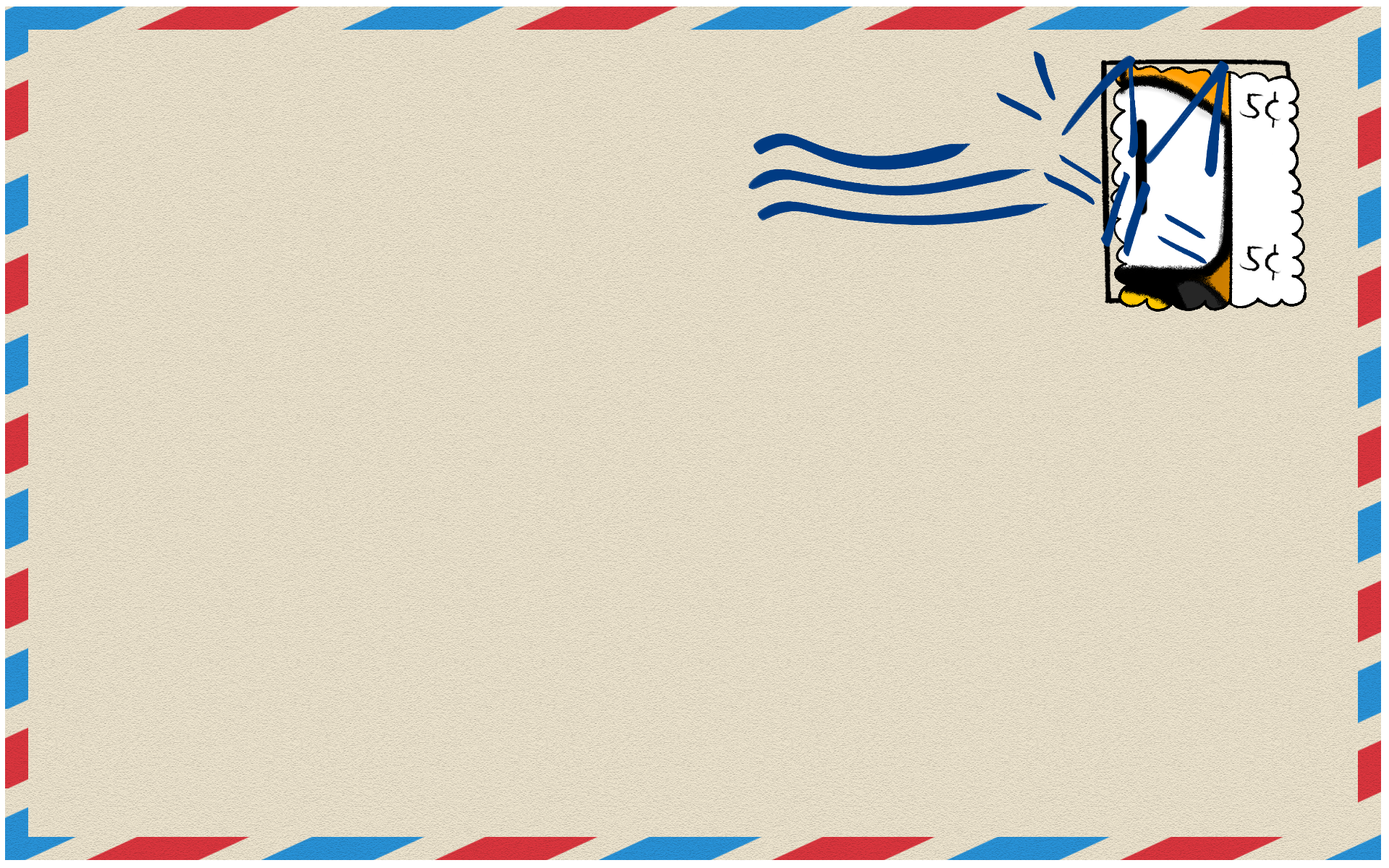
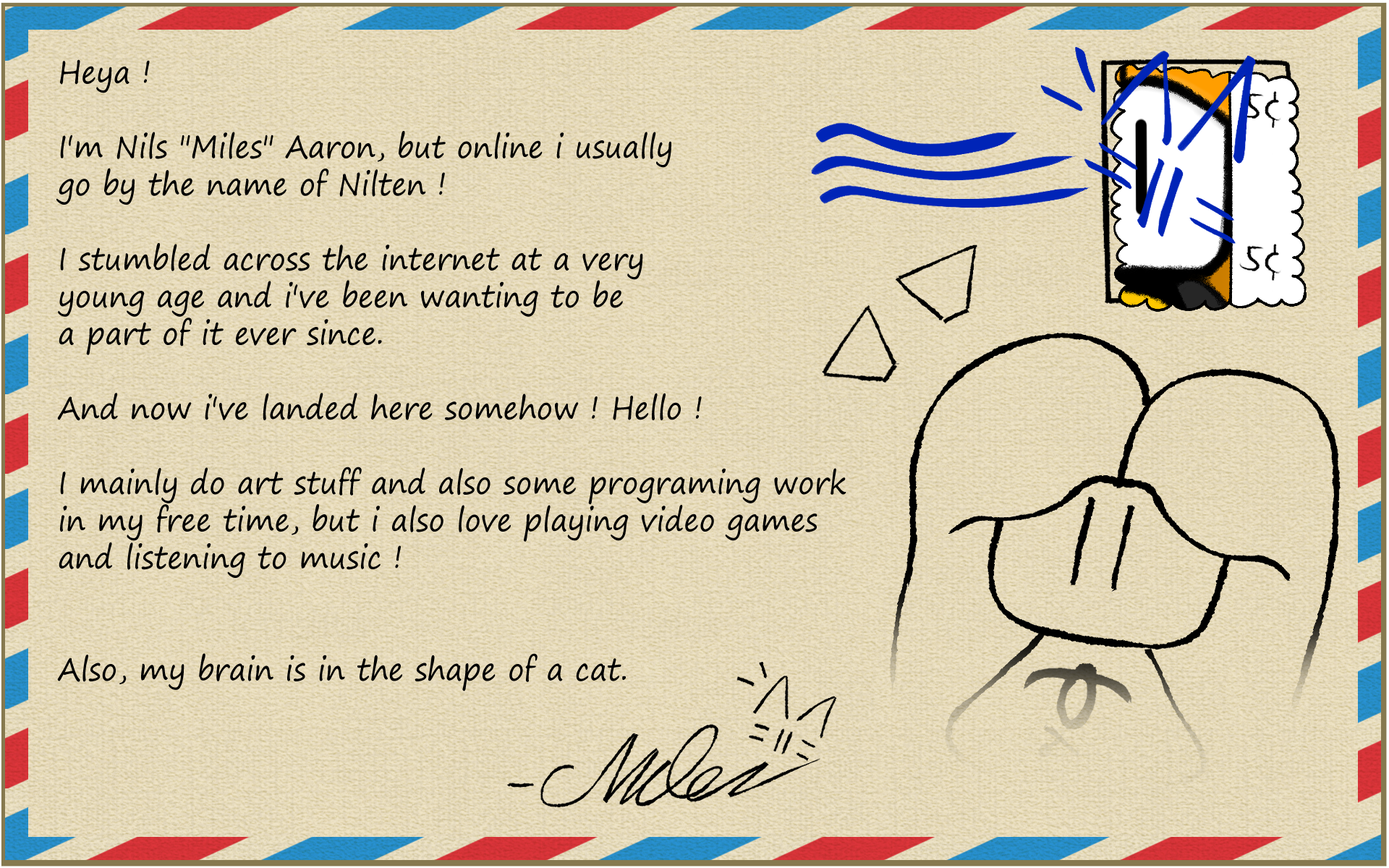
updated some texts and the postcard on the about page

Changed region(s): [[0.0, 0.0, 1.0, 1.0]]

diff --git a/nilten/about.html b/nilten/about.html
@@ -208,26 +208,11 @@
                 <div style="width: 100%; height: 90px;"></div>
 
                 <div style="width: 100%; transform: rotate(2deg);">
-                    <div style="width: 950px; height: 585px; background-color: #000000; opacity: 0.55; position: absolute; transform: translate(55px, 18px);"></div>
-                    <div style="width: 950px; height: 600px; margin: auto; margin-bottom: 15px; padding: 10px; display: flex; align-items: center; justify-content: center; position: relative; background-image: url('images/about/about_miles_postcard.webp'); background-size: cover; background-repeat: no-repeat;">
-                        <img src="images/generic/img_pin_01.webp" style="z-index: 1; position: absolute; width: 200px; transform: translate(-40px, -300px) rotate(30deg);" draggable="false">
-                        <div style="width: 75%; min-height: inherit;">
-                            <img src="images/about/about_speach_bubble_miles.webp" style="width: 735px;" draggable="false">
-                            <div style="position: absolute; left: 115px; top: 165px; width: 470px; font-size: 15px;">
-                                <p>Heya ! I'm Nils "Miles" Aaron, but i also go by the name of Nilten online ! I'm just a little dude from
-                                    germany, who happened to have stumbled across the internet at a relatively young age and who always wanted to be a part of it ever since. Fast forward a few
-                                    years later and now i'm here! hi ! hello !</p>
-                                <p>I mostly do a bunch of art stuff and also some programing work every now and then in my free time, but i also love playing video games and listening to music !
-                                    Life without these things would probably be absolute torture for me ! </p>
-                                <p style="margin-bottom: 7px;">I'm a huge fan of collecting physical media as well ! Mostly retro games, but i've started collecting more vinyl records too lately !</p>
-                                <p style="margin: 0;">And i also love cats as well ! <span style="font-size: 8px;">...if you couldn't tell already lmao</span></p>
-                            </div>
-                        </div>
-                        <div style="width: 25%;">
-                            <img src="images/about/about_miles_smol.webp" style="width: 220px; height: auto;">
-                        </div>
-                    </div>
+                    <img src="images/generic/img_pin_01.webp" style="z-index: 4; position: absolute; width: 175px; transform: translate(400px, -60px) rotate(15deg);" draggable="false">
+                    <img src="images/about/about_miles_postcard.webp" style="width: 90%; display: block; margin: auto;">
                 </div>
+
+                <div style="width: 100%; height: 50px;"></div>
             </div>
 
             <div id="mainContainerTwo" style="margin: 15px auto; border-width: 15px; width: 90%;">
@@ -236,13 +221,13 @@
                    <div style="float: left; width: 55%;">
                         <p>As of an early age, i have been quite a big fan of video games and just like with most of people my love for video games started with nintendo.</p>
                         <p>My first memories of playing video games are from playing the Nintendo 64, playing games like Mario Kart 64, Mario Party 2 or Super Smash Bros together with my cousins and also from spending a lot of time with consoles like the Wii, DS and GameCube. <br><br> I was a proud nintendo kid growing up! But i also have some memories of playing Playstation games like Little Big Planet or Katamari. And when i would be allowed to use the familly Vista PC, i've spend most of the time playing flash games like Super Mario 63. <br> Looking back, video games were quite a big part of my childhood and they still are to this day!</p>
-                        <p>Growing up on video games, mario has always been my favourite game series. This silly little red plumber from Brooklyn New York made baby miles' brain go "Oh wow videogames quite rule, actually."</p>
+                        <p>Growing up on video games, mario has always been my favorite game series. This silly little red plumber from Brooklyn New York made baby miles' brain go "Oh wow videogames quite rule, actually."</p>
                         <p>And ever since that fateful day, baby miles was never the same again...</p>
                         <p style="font-size: xx-small;">And with that i mean that i truly fell in love with videogames that day. nothing bad happenned to me i'm not ill or something like that i'm fine lmao.</p>
                    </div>
                     <div style="float: right; width: 45%;">
                         <div style="overflow-y: scroll; background-image: url('images/generic/div_bg_01.webp'); padding: 10px; height: 350px; width: 375px; margin: auto;" class="borderTypeOne">
-                            <p style="text-align: center; font-size: x-large; text-decoration: underline;">My favourite games:</p>
+                            <p style="text-align: center; font-size: x-large; text-decoration: underline;">My favorite games:</p>
                             <br>
                             <ul id="favVideogameList">
                                 <div class="favGameListItem">
@@ -467,7 +452,7 @@
                 <div>
                     <div style="float: left; width: 45%;">
                         <div style="overflow-y: scroll; background-image: url('images/generic/div_bg_01.webp'); padding: 10px; width: 375px; height: 350px; margin: auto;" class="borderTypeOne">
-                            <p style="text-align: center; font-size: x-large; text-decoration: underline;">My favourite Bands and Albums:</p>
+                            <p style="text-align: center; font-size: x-large; text-decoration: underline;">My favorite Bands and Albums:</p>
                             <br>
                             <ul style="padding: 0;">
                                 <div class="favMusicListItem">
@@ -630,7 +615,7 @@
                         Everytime i go for a walk, leave the house to get groceries or even when it's just me siting at home trying to get some work done, my mind is like a jukebox that's always on max volume !
                         </p>
                         <p>Like most people nowerdays, i listen to music using streaming services on my phone, due to it's convinience. Although i also own a good few albums on vinyl and cd ! Physical media just rules and it always will ! Especially for concept albums like The Wall, where you'll just have a better experience by not having any kind of load times or ad breaks !</p>
-                        <p>Here's a list of some of my favourite bands and albums, i love listening to. Now, these are just SOME of my favourite ! If i'd be listing every band and album i love, this list would be endless !</p>
+                        <p>Here's a list of some of my favorite bands and albums i love listening to. Now, these are just SOME of my favorite ! If i'd be listing every band and album i love, this list would be practically endless !</p>
                     </div>
                 </div>
             </div>
@@ -641,7 +626,7 @@
                     <img src="images/portfolio/artworks.webp" alt="Art thingys!" style="width: 512px; height: 432px; object-fit: cover; display: block; margin: auto;" class="borderTypeOne">
                     <div style="width: 50%;">
                         <p>I love drawing things in my free time ! It's a great way for me to relax and let my creativity flow. As long as my brain DOES actually let out these funky creativity chemicals and i'm not stuck in some form of art block, that is !</p>
-                        <p>I mostly draw stuff digitaly using my wacom drawing tablet (not sponsored) hooked up to my pc with clip studio paint (still not sponsored), but i also like to draw the traditional way using a real pen and paper from time to time !</p>
+                        <p>Mostly i draw digitaly using my xp pen artist pro 22 (not sponsored) hooked up to my pc with clip studio paint (still not sponsored), but i also like to draw the traditional way using a real pen and paper from time to time ! I often carry my sketchbook with ne if i randomly get in the mood to sketch something !</p>
                         <p>I have put up some of my artworks here on my site ! You can check them out by visiting the art tab ! I also upload my artworks to Newgrounds ! If you'd like to, you can visit my page over there as well !</p>
                         <p style="text-decoration: underline; font-weight: 600;">And remember kids: AI "Art" is NOT real art !</p>
                         <div class="link_border" style="width: fit-content; margin: auto;"><a href="https://nilten.newgrounds.com/" target="_blank" rel="noopener noreferrer"><img class="divSelect noBorder hoverScale" src="images/portfolio/newgrounds_Link.webp" alt="Check it out on Newgrounds!" style="width: 256px; height: auto; display: block; margin: auto;"></a></div>
